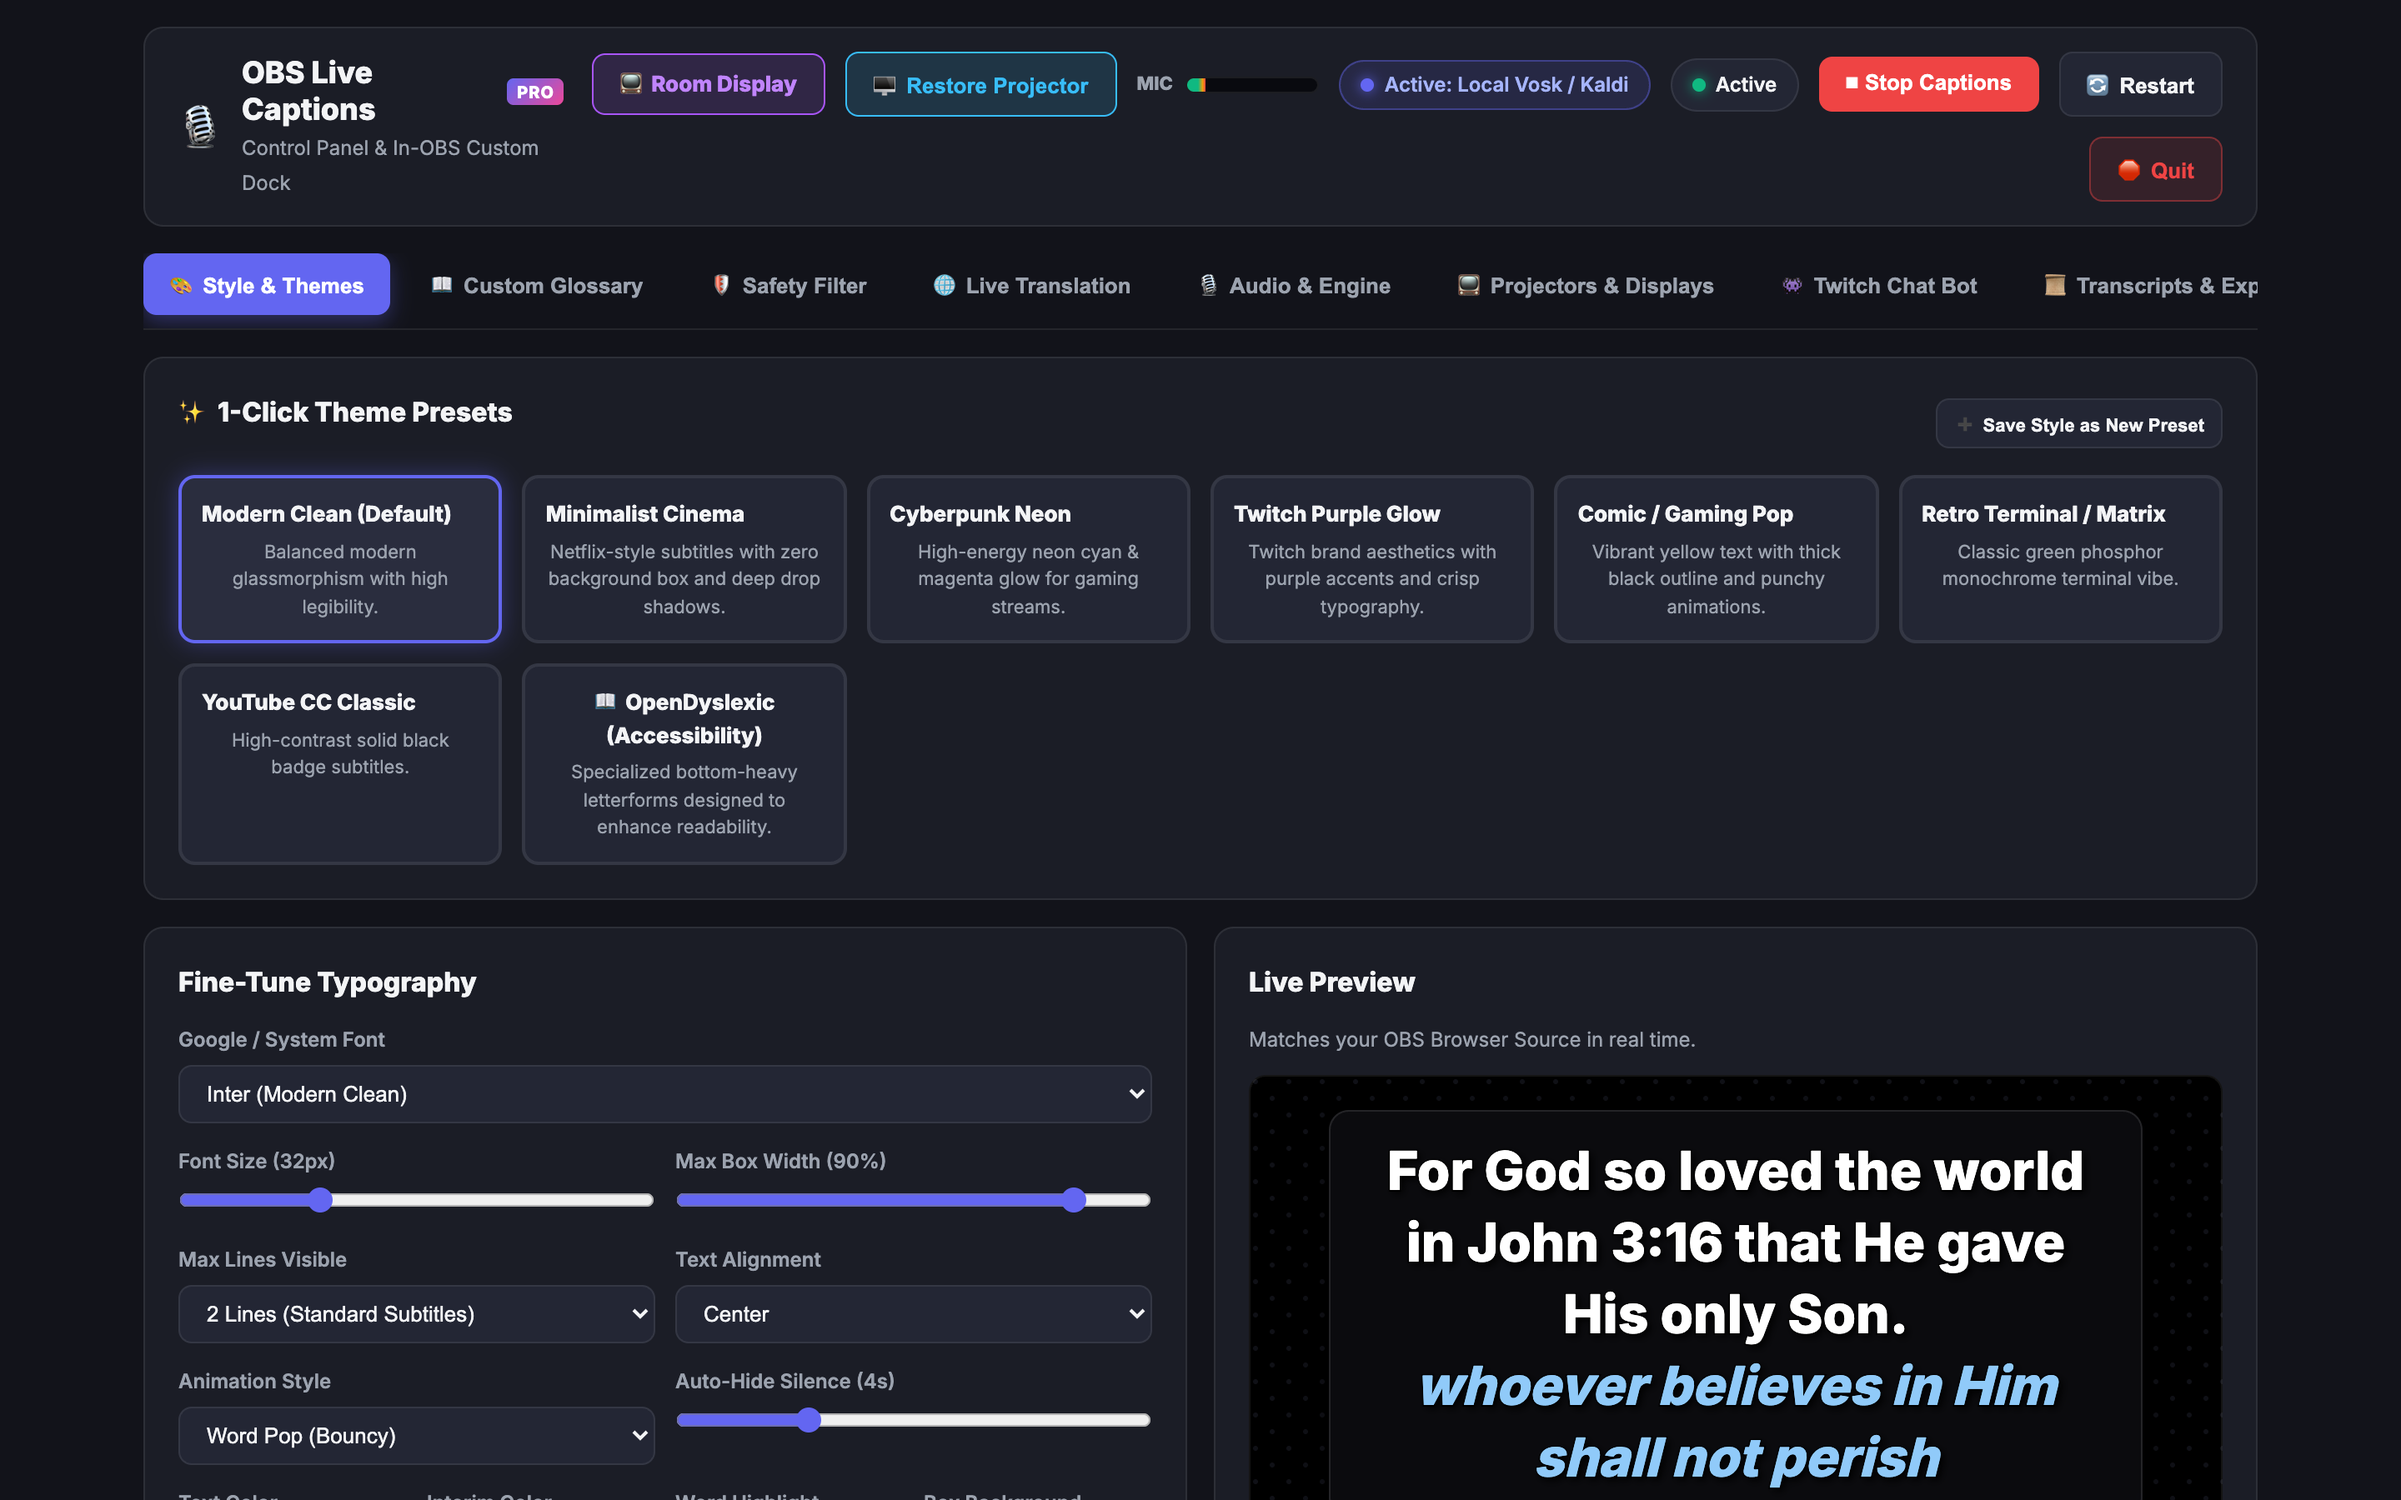
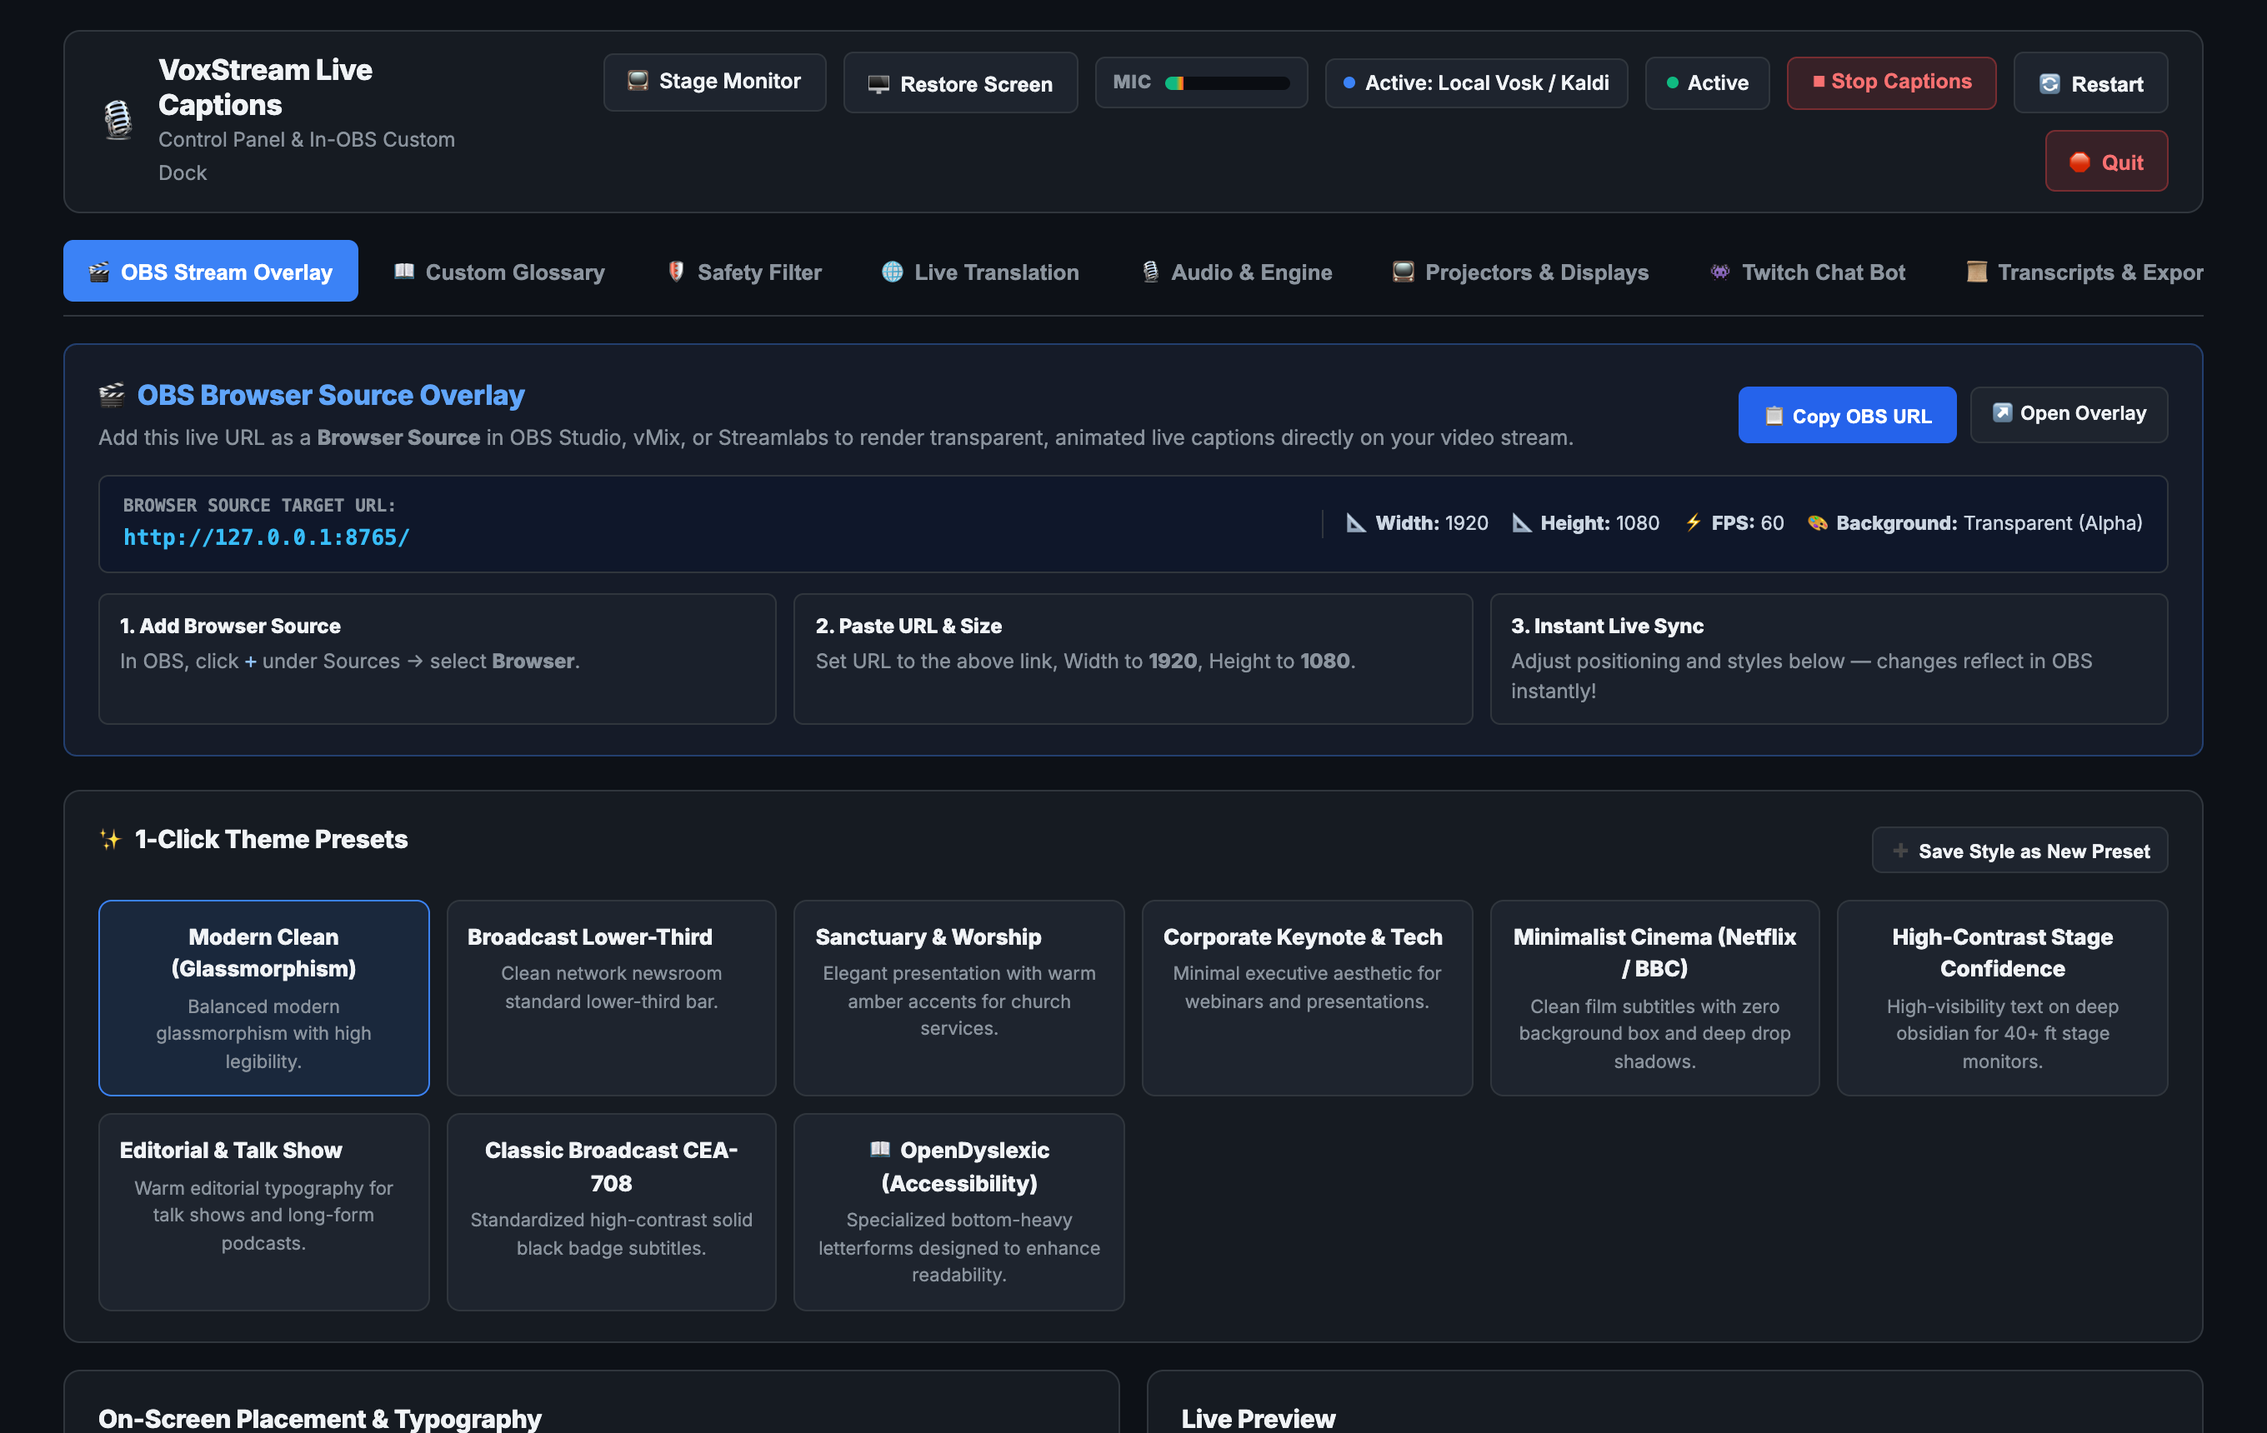
Update and embed high-resolution retina screenshots across README.md

diff --git a/README.md b/README.md
@@ -12,6 +12,11 @@ It features an integrated **In-OBS Web Control Dashboard & Custom Dock**, **7 Po
 
 ---
 
+
+<p align="center">
+  <img src="docs/screenshots/dashboard.png" alt="VoxStream Pro Dashboard and OBS Stream Overlay Studio" width="900" style="border-radius: 8px; box-shadow: 0 10px 30px rgba(0,0,0,0.5);">
+</p>
+
 ## ✨ Key Features Overview
 
 ### ⚡ 1. 7 Multi-Tier Speech Recognition Engines (Hot-Switchable)
@@ -33,6 +38,8 @@ It features an integrated **In-OBS Web Control Dashboard & Custom Dock**, **7 Po
   * **`📜 Scrollable History` (Default)**: Full persistent, bi-directional scrollable transcript of the service. Presenters can scroll up with touch or mouse wheel to review earlier points or scripture verses.
   * **`⚡ Live Prompter (Auto-Fade)`**: Displays only the active 2 lines on screen and automatically fades out on silence for clean broadcast teleprompting.
 * **Fully Responsive UI**: Fluidly adapts across 4K displays, ultrawide monitors, iPads, and mobile phones with touch-friendly controls and responsive typography.
+
+<p align="center"><img src="docs/screenshots/stage_monitor.png" alt="VoxStream Stage and Room Confidence Monitor PWA" width="850" style="border-radius: 8px;"></p>
 
 ---
 
@@ -72,12 +79,16 @@ It features an integrated **In-OBS Web Control Dashboard & Custom Dock**, **7 Po
 * **Viewer Toggleable [CC]**: Viewers on YouTube Live and Twitch can toggle captions on/off right on the video player without permanently burning text into video pixels.
 * **Twitch Chat Caption Broadcaster**: Automatically sends live captions into Twitch chat for mobile and hearing-impaired viewers.
 
+<p align="center"><img src="docs/screenshots/stream_overlay.png" alt="OBS Transparent Animated Stream Overlay" width="850" style="border-radius: 8px;"></p>
+
 ---
 
 ### 🤖 7. 1-Click Offline AI Model Downloader & Storage Cache Manager
 * **Pre-Download Offline Models**: 1-click batch or individual download for all 7 offline speech recognition models (*Vosk Small/Large, Faster-Whisper Tiny/Base/Small, Moonshine Tiny/Base*).
 * **Storage Management**: Visual disk cache inspector with single-model deletion and full cache clearance (`/api/models/delete`).
 * **Offline Readiness**: Prepares production systems for zero-internet environments with live download progress bars.
+
+<p align="center"><img src="docs/screenshots/dashboard_engine.png" alt="Offline AI Speech-to-Text Models Downloader and Cache Manager" width="850" style="border-radius: 8px;"></p>
 
 ---
 
@@ -94,6 +105,8 @@ It features an integrated **In-OBS Web Control Dashboard & Custom Dock**, **7 Po
 * **Phonetic Replacement Engine**: Automatically replaces misheard slang, proper nouns, brand names, and church jargon in < 0.1ms.
 * **Bulk Import & Export**: Import CSV or TSV files, copy/paste multiple terms, or download your entire glossary with 1 click (`/api/vocabulary/export`).
 * **Live Sandbox Tester**: Test substitutions in real time before going live.
+
+<p align="center"><img src="docs/screenshots/glossary_csv.png" alt="Custom Vocabulary & Bulk CSV Import/Export" width="850" style="border-radius: 8px;"></p>
 * Full REST API control for hardware broadcast switchers and Stream Decks.
 * **1-Button Panic Drop**: Instantly wipe visible captions across all broadcast screens and overlays (`POST /api/control/panic`).
 * **1-Button Toggle**: Start or pause speech recognition on demand (`POST /api/control/toggle`).
